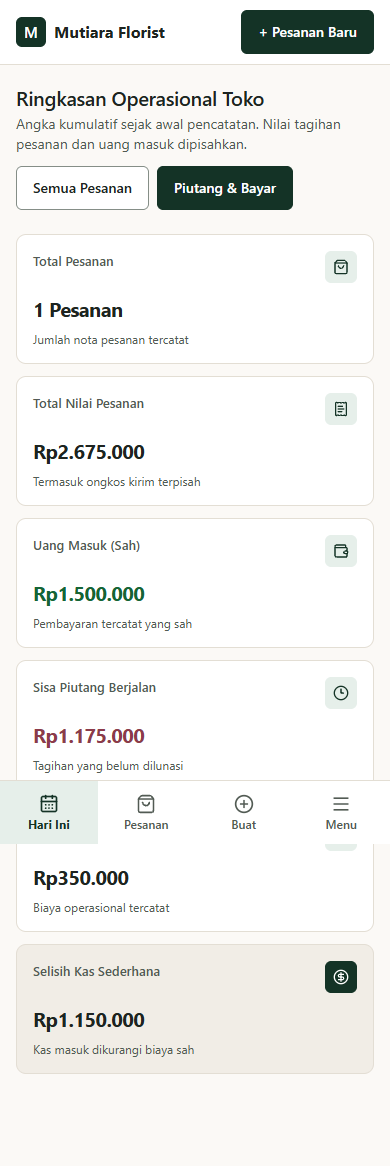
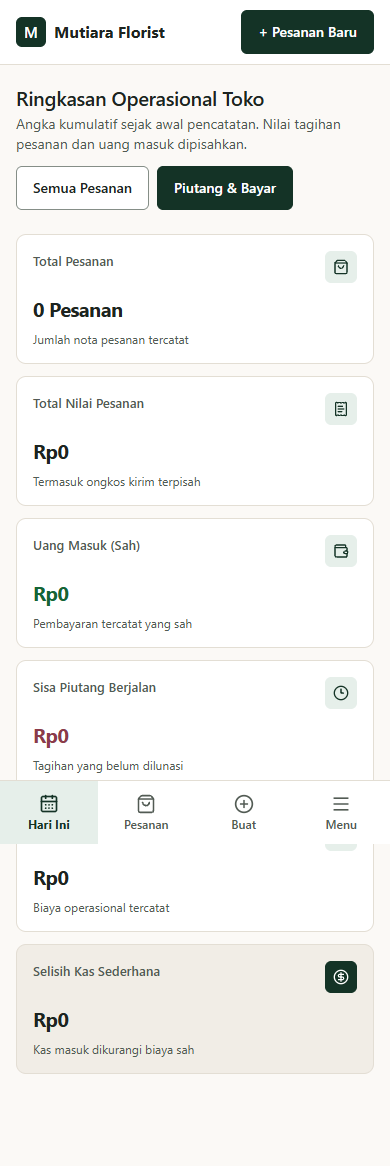
fix(phase9): PATCH-01 44x44 touch targets and Modal focus stability

diff --git a/resources/js/components/ui/searchable-select.tsx b/resources/js/components/ui/searchable-select.tsx
@@ -35,6 +35,8 @@ export function SearchableSelect({
 }: SearchableSelectProps) {
     const listboxId = useId();
     const wrapperRef = useRef<HTMLDivElement>(null);
+    const inputRef = useRef<HTMLInputElement>(null);
+    const suppressFocusOpenRef = useRef(false);
 
     const selectedOption = useMemo(
         () => options.find((opt) => String(opt.value) === String(value ?? '')),
@@ -98,21 +100,32 @@ export function SearchableSelect({
                 e.preventDefault();
                 selectOption(target);
             }
-        } else if (e.key === 'Escape' && open) {
+        }
+    };
+
+    const handleWrapperKeyDown = (e: React.KeyboardEvent<HTMLDivElement>) => {
+        if (e.key === 'Escape' && open) {
             e.preventDefault();
+            e.stopPropagation();
+            e.nativeEvent.stopPropagation();
             setOpen(false);
             setQuery(selectedOption ? selectedOption.label : '');
+            if (document.activeElement !== inputRef.current) {
+                suppressFocusOpenRef.current = true;
+                inputRef.current?.focus();
+            }
         }
     };
 
     return (
-        <div ref={wrapperRef} className="relative">
+        <div ref={wrapperRef} onKeyDown={handleWrapperKeyDown} className="relative">
             <div className="relative flex items-center">
                 <Search
                     className="pointer-events-none absolute left-3 size-4 text-[#525B54]"
                     aria-hidden="true"
                 />
                 <input
+                    ref={inputRef}
                     id={id}
                     type="text"
                     role="combobox"
@@ -129,6 +142,10 @@ export function SearchableSelect({
                     placeholder={placeholder}
                     autoComplete="off"
                     onFocus={() => {
+                        if (suppressFocusOpenRef.current) {
+                            suppressFocusOpenRef.current = false;
+                            return;
+                        }
                         setOpen(true);
                         setActiveIndex(0);
                     }}
@@ -140,11 +157,12 @@ export function SearchableSelect({
                     }}
                     onKeyDown={handleKeyDown}
                     className={cn(
-                        'min-h-[44px] w-full rounded-md border-[1.5px] py-2 pl-9 pr-16 text-[15px] text-[#1E2420] placeholder:text-[#525B54]/75 focus-visible:outline-[3px] focus-visible:outline-offset-2 focus-visible:outline-[#143326] disabled:bg-[#F1EDE6]',
+                        'min-h-[44px] w-full rounded-md border-[1.5px] py-2 pl-9 text-[15px] text-[#1E2420] placeholder:text-[#525B54]/75 focus-visible:outline-[3px] focus-visible:outline-offset-2 focus-visible:outline-[#143326] disabled:bg-[#F1EDE6]',
+                        query && !disabled ? 'pr-[92px]' : 'pr-12',
                         invalid ? 'border-[#991B1B] bg-[#FFF9F9]' : 'border-[#858E87] bg-white',
                     )}
                 />
-                <div className="absolute right-1.5 flex items-center gap-0.5">
+                <div className="absolute inset-y-0 right-0 flex items-center">
                     {query && !disabled && (
                         <button
                             type="button"
@@ -153,8 +171,9 @@ export function SearchableSelect({
                                 setQuery('');
                                 onChange(null);
                                 setOpen(true);
+                                inputRef.current?.focus();
                             }}
-                            className="inline-flex size-8 items-center justify-center rounded text-[#525B54] hover:bg-[#F1EDE6] hover:text-[#1E2420]"
+                            className="inline-flex size-11 items-center justify-center rounded text-[#525B54] hover:bg-[#F1EDE6] hover:text-[#1E2420]"
                         >
                             <X className="size-4" aria-hidden="true" />
                         </button>
@@ -164,7 +183,7 @@ export function SearchableSelect({
                         aria-label={open ? 'Tutup daftar' : 'Buka daftar'}
                         disabled={disabled}
                         onClick={() => setOpen((prev) => !prev)}
-                        className="inline-flex size-8 items-center justify-center rounded text-[#525B54] hover:bg-[#F1EDE6] hover:text-[#1E2420]"
+                        className="inline-flex size-11 items-center justify-center rounded text-[#525B54] hover:bg-[#F1EDE6] hover:text-[#1E2420]"
                     >
                         <ChevronDown className="size-4" aria-hidden="true" />
                     </button>

diff --git a/resources/js/components/ui/modal.tsx b/resources/js/components/ui/modal.tsx
@@ -28,6 +28,16 @@ export function Modal({
     const descId = useId();
     const dialogRef = useRef<HTMLDivElement>(null);
     const previousFocusRef = useRef<HTMLElement | null>(null);
+    const onCloseRef = useRef(onClose);
+    const isSubmittingRef = useRef(isSubmitting);
+
+    useEffect(() => {
+        onCloseRef.current = onClose;
+    }, [onClose]);
+
+    useEffect(() => {
+        isSubmittingRef.current = isSubmitting;
+    }, [isSubmitting]);
 
     useEffect(() => {
         if (!open) return;
@@ -38,16 +48,21 @@ export function Modal({
         const container = dialogRef.current;
         const focusTimer = window.setTimeout(() => {
             if (!container) return;
-            const firstFocusable = container.querySelector<HTMLElement>(
-                'input:not([disabled]), select:not([disabled]), textarea:not([disabled]), button:not([disabled]), [tabindex]:not([tabindex="-1"])',
+            const preferredField = container.querySelector<HTMLElement>(
+                '[data-modal-initial], input:not([disabled]), select:not([disabled]), textarea:not([disabled])',
             );
-            (firstFocusable ?? container).focus();
+            const fallbackFocusable = container.querySelector<HTMLElement>(
+                'button:not([disabled]), a[href], [tabindex]:not([tabindex="-1"])',
+            );
+            (preferredField ?? fallbackFocusable ?? container).focus();
         }, 0);
 
         const handleKeyDown = (e: KeyboardEvent) => {
-            if (e.key === 'Escape' && !isSubmitting) {
-                e.preventDefault();
-                onClose();
+            if (e.key === 'Escape') {
+                if (!isSubmittingRef.current) {
+                    e.preventDefault();
+                    onCloseRef.current();
+                }
                 return;
             }
 
@@ -58,7 +73,11 @@ export function Modal({
                     ),
                 ).filter((el) => el.offsetParent !== null);
 
-                if (focusables.length === 0) return;
+                if (focusables.length === 0) {
+                    e.preventDefault();
+                    container.focus();
+                    return;
+                }
 
                 const first = focusables[0];
                 const last = focusables[focusables.length - 1];
@@ -81,7 +100,7 @@ export function Modal({
                 prev.focus();
             }
         };
-    }, [open, onClose, isSubmitting]);
+    }, [open]);
 
     if (!open) return null;
 

diff --git a/resources/js/layouts/app-layout.tsx b/resources/js/layouts/app-layout.tsx
@@ -174,7 +174,7 @@ export default function AppLayout({ title: _title, children }: AppLayoutProps) {
                                     type="button"
                                     aria-label="Tutup pemberitahuan"
                                     onClick={() => setDismissedKey(flashKey)}
-                                    className="inline-flex min-h-[36px] min-w-[36px] items-center justify-center rounded text-[#166534] hover:bg-[#166534]/10"
+                                    className="inline-flex size-11 shrink-0 items-center justify-center rounded text-[#166534] hover:bg-[#166534]/10"
                                 >
                                     <X className="size-4" aria-hidden="true" />
                                 </button>
@@ -194,7 +194,7 @@ export default function AppLayout({ title: _title, children }: AppLayoutProps) {
                                     type="button"
                                     aria-label="Tutup peringatan"
                                     onClick={() => setDismissedKey(flashKey)}
-                                    className="inline-flex min-h-[36px] min-w-[36px] items-center justify-center rounded text-[#991B1B] hover:bg-[#991B1B]/10"
+                                    className="inline-flex size-11 shrink-0 items-center justify-center rounded text-[#991B1B] hover:bg-[#991B1B]/10"
                                 >
                                     <X className="size-4" aria-hidden="true" />
                                 </button>

diff --git a/resources/js/pages/Auth/Login.tsx b/resources/js/pages/Auth/Login.tsx
@@ -109,7 +109,7 @@ export default function Login(_props: LoginProps) {
                                     type="button"
                                     aria-label={showPassword ? 'Sembunyikan password' : 'Lihat password'}
                                     onClick={() => setShowPassword((prev) => !prev)}
-                                    className="absolute right-1.5 inline-flex size-9 items-center justify-center rounded text-[#525B54] hover:bg-[#F1EDE6] hover:text-[#1E2420]"
+                                    className="absolute right-0 inline-flex size-11 items-center justify-center rounded text-[#525B54] hover:bg-[#F1EDE6] hover:text-[#1E2420]"
                                 >
                                     {showPassword ? (
                                         <EyeOff className="size-4" aria-hidden="true" />

diff --git a/resources/js/components/ui/currency-input.tsx b/resources/js/components/ui/currency-input.tsx
@@ -68,7 +68,7 @@ export const CurrencyInput = React.forwardRef<HTMLInputElement, CurrencyInputPro
                     required={required}
                     aria-invalid={invalid ? true : undefined}
                     aria-describedby={describedBy}
-                    className="tabular-nums min-h-[42px] w-full min-w-0 border-0 bg-transparent px-3 py-2 text-[15px] font-semibold text-[#1E2420] placeholder:font-normal placeholder:text-[#525B54]/75 focus:outline-none"
+                    className="tabular-nums min-h-[44px] w-full min-w-0 border-0 bg-transparent px-3 py-2 text-[15px] font-semibold text-[#1E2420] placeholder:font-normal placeholder:text-[#525B54]/75 focus:outline-none"
                 />
             </div>
         );

diff --git a/tests/Feature/Phase9Sprint1LocalizationTest.php b/tests/Feature/Phase9Sprint1LocalizationTest.php
@@ -199,4 +199,19 @@ class Phase9Sprint1LocalizationTest extends TestCase
                 ->where('nav.uiReports', route('ui-reports.index'))
                 ->etc());
     }
+
+    public function test_flash_success_shared_with_inertia_after_expense_category_store(): void
+    {
+        $response = $this->actingAs($this->admin)
+            ->post('/ui-expense-categories', ['name' => 'Perlengkapan Pita Patch01']);
+
+        $response->assertRedirect('/ui-expense-categories');
+
+        $this->actingAs($this->admin)
+            ->get('/ui-expense-categories')
+            ->assertOk()
+            ->assertInertia(fn (Assert $page) => $page
+                ->where('flash.success', fn ($msg) => is_string($msg) && $msg !== '')
+                ->etc());
+    }
 }
